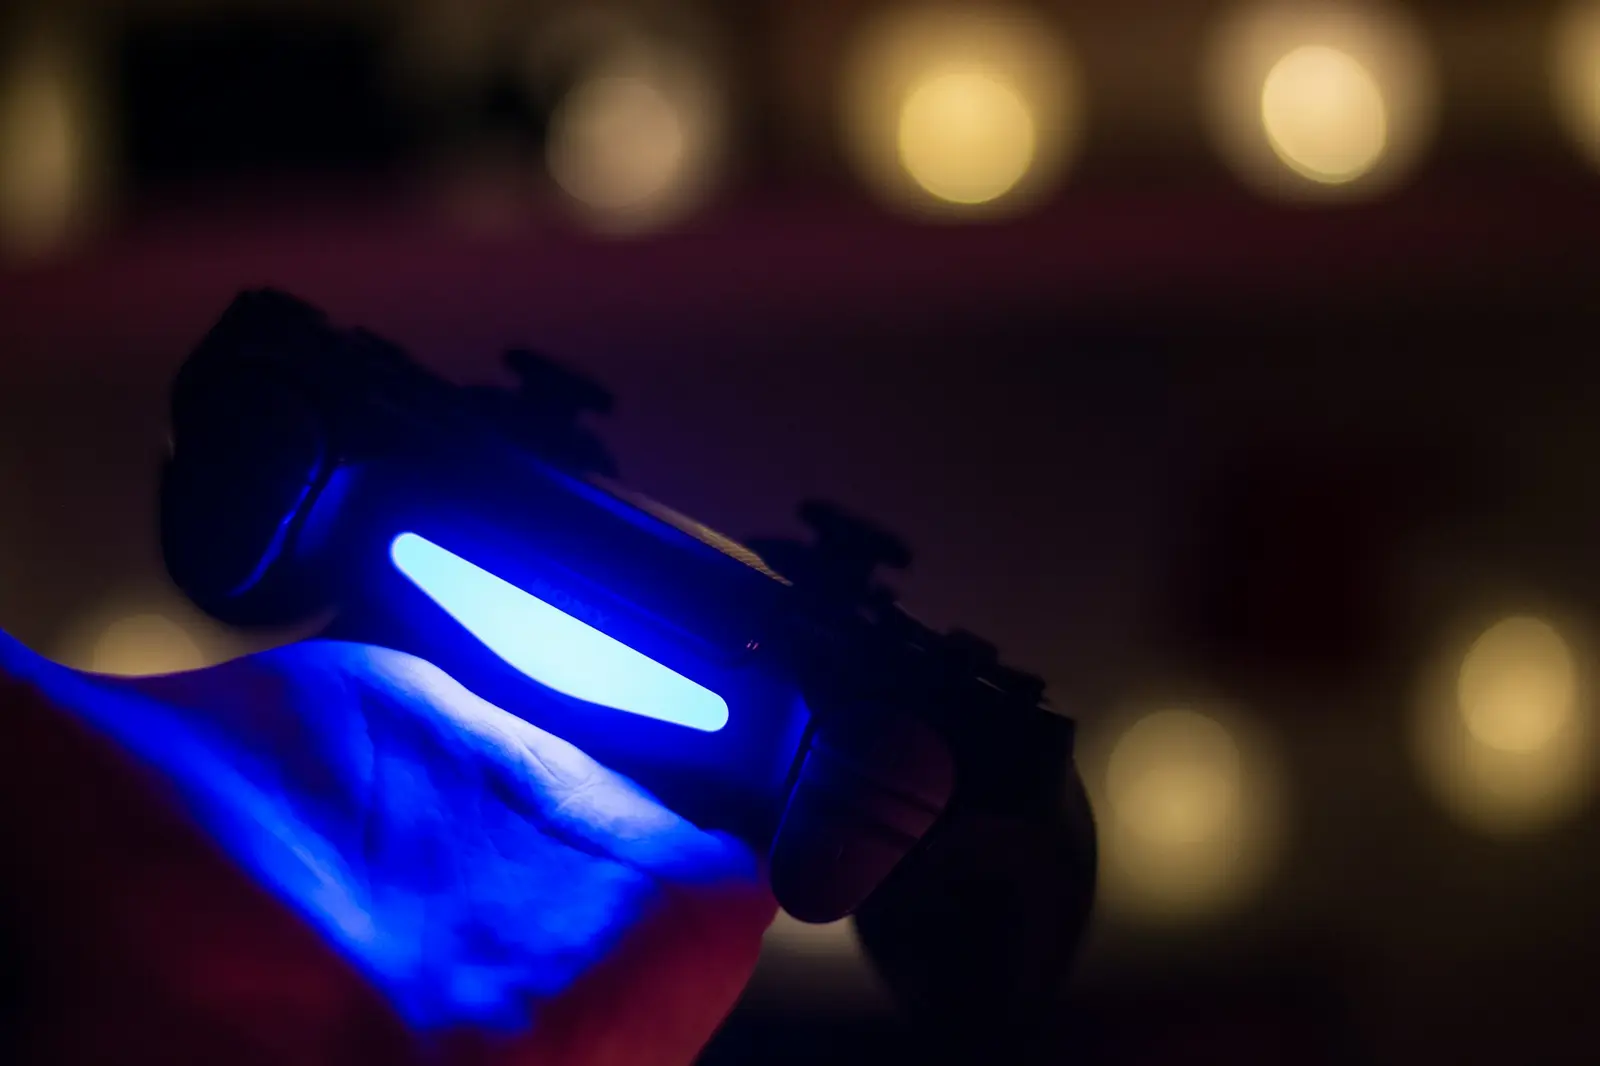
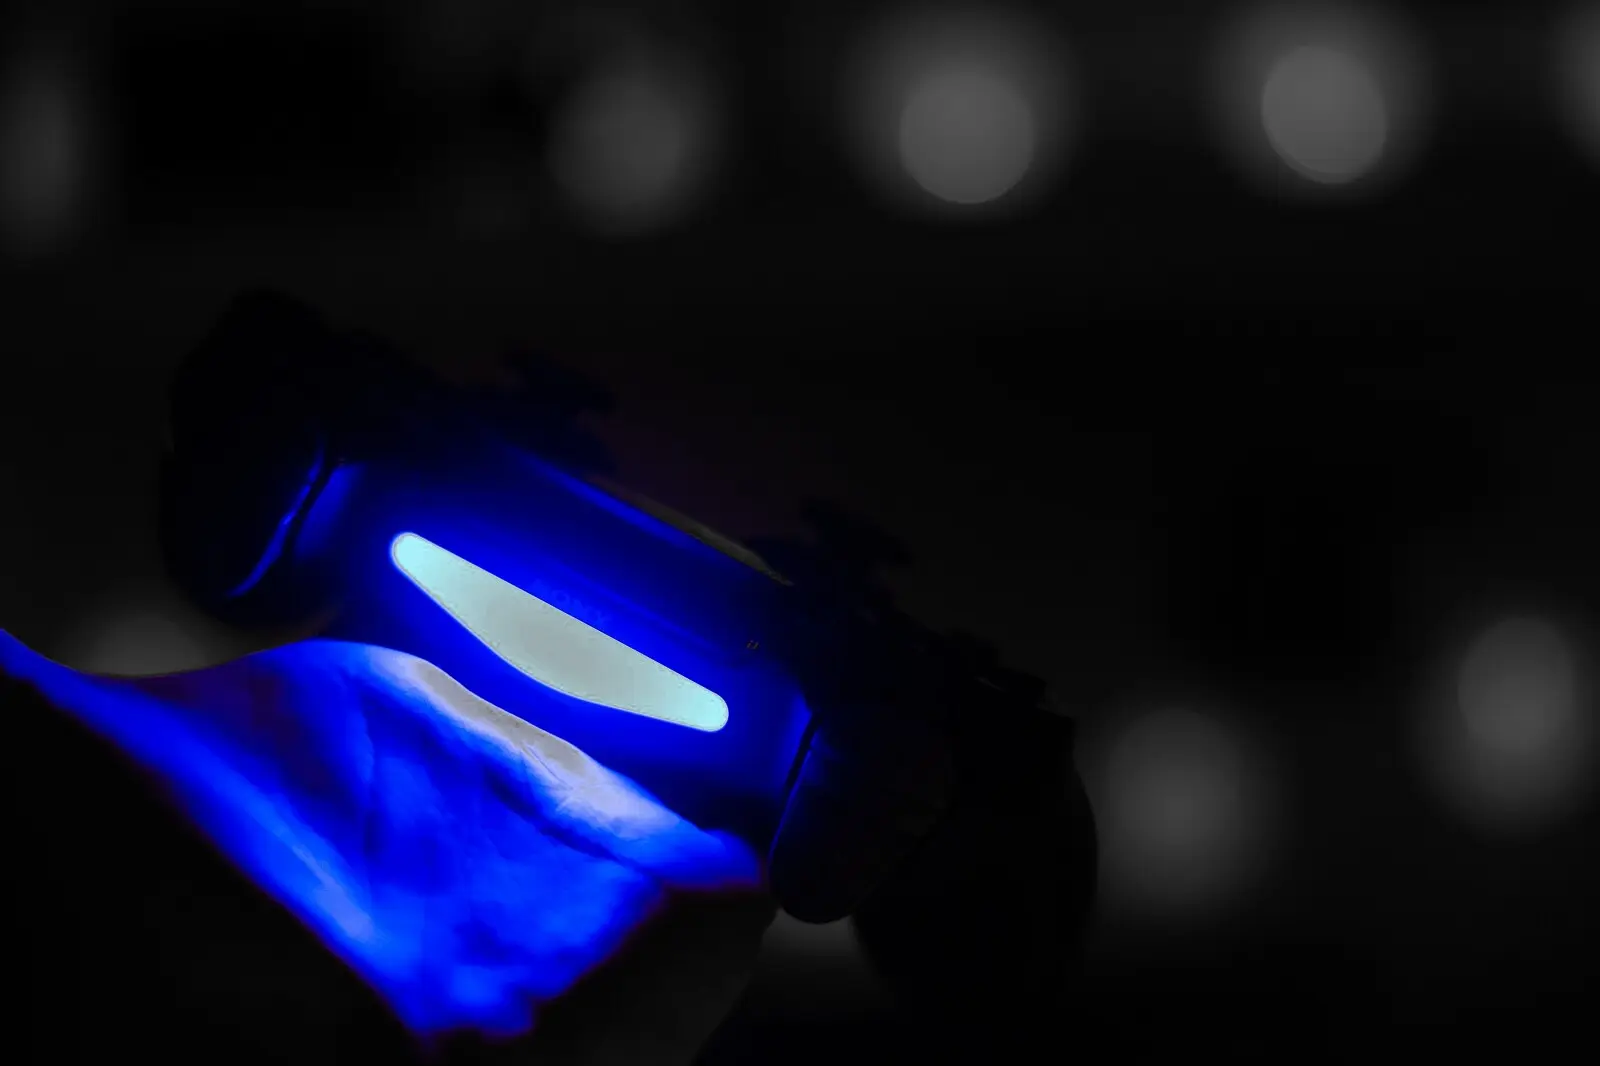
fix: abertura com a janela no primeiro viewport e fotos no mundo do design system
Ajustes da revisão de design:
- a faixa da foto fica mais baixa e recortada na barra de luz; a janela
  entra no primeiro viewport em 1440x900 e 390x844, com a luz acesa logo
  acima dela; título até 80 px;
- foto da sala trocada por uma de fone de ouvido diante da TV, sem marcas
  de terceiros, em duotom; mão com luz só com o azul colorido; fundo da
  foto final levado ao preto da página;
- barra de título da janela com o botão de fechar do GNOME;
- rodapé alinhado à coluna de conteúdo, navegação visível no tablet,
  botões planos alinhados no celular, rótulos do grafo maiores.

diff --git a/landingpage/css/style.css b/landingpage/css/style.css
@@ -332,7 +332,7 @@ p {
 
 .hero {
   position: relative;
-  padding: clamp(112px, 16vh, 168px) var(--gutter) 0;
+  padding: clamp(96px, 13vh, 132px) var(--gutter) 0;
   isolation: isolate;
 }
 
@@ -340,8 +340,8 @@ p {
   position: relative;
   z-index: -1;
   margin: clamp(-96px, -5vw, -32px) calc(-1 * var(--gutter)) 0;
-  aspect-ratio: 12 / 5;
-  max-height: 760px;
+  aspect-ratio: 3 / 1;
+  max-height: 720px;
   overflow: hidden;
   /* a foto se dissolve no preto da página nas duas pontas */
   -webkit-mask-image: linear-gradient(to bottom, transparent 0, #000 28%, #000 72%, transparent 100%);
@@ -352,7 +352,7 @@ p {
   width: 100%;
   height: 100%;
   object-fit: cover;
-  object-position: 50% 88%;
+  object-position: 50% 86%;
   filter: hue-rotate(var(--led-hue)) saturate(var(--led-sat));
   transition: filter 300ms ease-out;
 }
@@ -363,7 +363,7 @@ p {
 }
 
 .hero h1 {
-  font-size: clamp(2.75rem, 7.2vw, 6rem);
+  font-size: clamp(2.75rem, 6vw, 5rem);
   line-height: 1.02;
   letter-spacing: -0.04em;
   max-width: 15ch;
@@ -410,8 +410,8 @@ p {
 .window-wrap {
   position: relative;
   max-width: 1040px;
-  /* a janela nasce logo abaixo da barra de luz da foto */
-  margin: min(-17vw, -120px) auto 0;
+  /* a janela nasce logo abaixo da barra de luz da foto, que fica acesa atrás dela */
+  margin: min(-20vw, -120px) auto 0;
 }
 
 .window-wrap > .caption {
@@ -443,18 +443,20 @@ p {
   font-weight: 500;
 }
 
-.win-dots {
+.win-close {
   position: absolute;
-  right: 14px;
-  display: flex;
-  gap: 8px;
-}
-
-.win-dots i {
-  width: 12px;
-  height: 12px;
+  right: 10px;
+  display: grid;
+  place-items: center;
+  width: 24px;
+  height: 24px;
   border-radius: 50%;
   background: var(--black-2);
+}
+
+.win-close .icon {
+  width: 14px;
+  height: 14px;
 }
 
 .win-body {
@@ -1096,9 +1098,6 @@ input[type="range"]::-moz-range-thumb {
   font-weight: 200;
   letter-spacing: -0.04em;
   line-height: 0.9;
-  display: inline-block;
-  min-width: 2.6ch;
-  text-align: right;
 }
 
 .big-readout .unit {
@@ -1434,9 +1433,9 @@ input[type="range"]::-moz-range-thumb {
 
 /* rodapé */
 .footer {
-  max-width: var(--content);
+  width: min(calc(100% - 2 * var(--gutter)), calc(var(--content) - 2 * var(--gutter)));
   margin: 0 auto;
-  padding: 32px var(--gutter) 48px;
+  padding: 32px 0 48px;
   border-top: 1px solid var(--hairline);
   display: grid;
   gap: 12px;
@@ -1456,12 +1455,13 @@ input[type="range"]::-moz-range-thumb {
 /* ---------- responsivo ---------- */
 
 @media (max-width: 960px) {
-  .topnav {
-    display: none;
+  .topbar {
+    gap: 12px;
   }
 
-  .topbar-repo {
-    margin-left: auto;
+  .topnav a {
+    padding: 0 8px;
+    font-size: 0.8125rem;
   }
 
   .parallel,
@@ -1496,21 +1496,39 @@ input[type="range"]::-moz-range-thumb {
 }
 
 @media (max-width: 720px) {
+  .topnav {
+    display: none;
+  }
+
+  .topbar-repo {
+    margin-left: auto;
+  }
+
+  .hero-actions .button.flat {
+    padding-inline: 0;
+  }
+
+  .hero-actions .button.flat:hover {
+    background: transparent;
+    text-decoration: underline;
+    text-underline-offset: 0.22em;
+  }
+
   .win-body {
     grid-template-columns: 1fr;
     min-height: 0;
   }
 
   .hero-photo {
-    aspect-ratio: 4 / 3;
+    aspect-ratio: 16 / 9;
   }
 
   .hero-photo img {
-    object-position: 50% 80%;
+    object-position: 50% 76%;
   }
 
   .window-wrap {
-    margin-top: -56px;
+    margin-top: -72px;
   }
 
   .win-sidebar {
@@ -1559,7 +1577,7 @@ input[type="range"]::-moz-range-thumb {
 
   .n-sub,
   .n-label {
-    font-size: 18px;
+    font-size: 20px;
   }
 
   .bands li,

diff --git a/landingpage/index.html b/landingpage/index.html
@@ -96,7 +96,9 @@
                 <div class="window" id="janela" data-conn="usb" data-page="status">
                     <div class="win-header">
                         <span class="win-title">DS4 Companion</span>
-                        <span class="win-dots" aria-hidden="true"><i></i><i></i><i></i></span>
+                        <span class="win-close" aria-hidden="true">
+                            <svg class="icon" viewBox="0 0 20 20"><path d="m6.5 6.5 7 7M13.5 6.5l-7 7"/></svg>
+                        </span>
                     </div>
                     <div class="win-body">
                         <nav class="win-sidebar" aria-label="Páginas da prévia" role="tablist">
@@ -231,8 +233,8 @@
         <section class="section parallel" id="paralelo" aria-labelledby="paralelo-titulo">
             <div class="parallel-photo">
                 <picture>
-                    <source type="image/webp" srcset="assets/img/sala-tv-640.webp 640w, assets/img/sala-tv-1200.webp 1200w" sizes="(min-width: 960px) 40vw, 100vw">
-                    <img src="assets/img/sala-tv.jpg" alt="Pessoa sentada no chão de uma sala escura, jogando diante da TV" width="1200" height="1800" loading="lazy">
+                    <source type="image/webp" srcset="assets/img/fone-tv-640.webp 640w, assets/img/fone-tv-1200.webp 1200w" sizes="(min-width: 960px) 40vw, 100vw">
+                    <img src="assets/img/fone-tv.jpg" alt="Pessoa de fone de ouvido diante da TV, numa sala escura" width="1200" height="1800" loading="lazy">
                 </picture>
             </div>
             <div class="parallel-body">
@@ -467,7 +469,7 @@
         <p class="caption">
             Fotos do Unsplash:
             <a href="https://unsplash.com/photos/LfVBFnrM-bM">Radek Skrzypczak</a>,
-            <a href="https://unsplash.com/photos/qgInQSplXBU">Erik Mclean</a>,
+            <a href="https://unsplash.com/photos/HwJqzQSanDc">luis enrique</a>,
             <a href="https://unsplash.com/photos/jk4EUmHtU8M">Mateusz Strzeszewski</a> e
             <a href="https://unsplash.com/photos/7Q2RYMQTpJg">Javid Naderi</a>.
         </p>

diff --git a/landingpage/.impeccable/surfaces/index-html.md b/landingpage/.impeccable/surfaces/index-html.md
@@ -24,8 +24,8 @@ OWN-WORLD: black-0 #060709 como vazio, black-1/black-2 como camadas, uma única 
 
 STORY: entende em uma linha que o som vai para a TV e para o controle ao mesmo tempo; acredita porque vê o fluxo em paralelo, o slider em dB que inverte para branco acima de 0 dB e a honestidade sobre Bluetooth; age indo ao GitHub ou copiando o comando de instalação futuro.
 
-FIRST VIEWPORT: título leve à esquerda no topo (≈ 64–80 px) com a frase do produto; logo e links mínimos numa barra fina; a janela do app ocupa ~60% da largura, inclinada zero, flutuando sobre foto escura do controle com a faixa de luz acesa; ação principal "Ver no GitHub" (led-blue) + comando copiável ao lado. Raise (estrutura 4, sala à noite): foto real de controle no escuro como chão do hero. Raise (estrutura 3, fader): o slider em dB da janela é arrastável e mostra livre/alto/acima do limite com inversão.
+FIRST VIEWPORT: título leve à esquerda no topo (≈ 64–80 px) com a frase do produto; logo e links mínimos numa barra fina; a janela do app ocupa ~60% da largura, inclinada zero, flutuando sobre foto escura do controle com a faixa de luz acesa; ação principal "Acompanhar no GitHub" (led-blue) + "Como instalar"; o comando copiável fica na seção de instalação, rotulado "quando sair", porque o pacote ainda não existe. Raise (estrutura 4, sala à noite): foto real de controle no escuro como chão do hero. Raise (estrutura 3, fader): o slider em dB da janela é arrastável e mostra livre/alto/acima do limite com inversão.
 
-FORM: estrutura 6 de 7 (página como janela do app), sorteada na frente; seed:d69856b8a6825e94. Desafiantes recusados; disciplina mantida da prancha de patente: anatomia do controle com linhas de chamada finas ligando peças a recursos. Do contador nixie: o valor em dB é o único numeral aceso, tabular, que troca no lugar.
+FORM: estrutura 6 de 7 (página como janela do app), sorteada na frente; seed:d69856b8a6825e94. Desafiantes recusados; da prancha de patente fica só a linha de chamada fina, no grafo do áudio (a foto é frontal e não mostra alto-falante nem motores, então uma anatomia apontaria para o lugar errado). Do contador nixie: o valor em dB é o único numeral aceso, tabular, que troca no lugar.
 
 FINISH: unreviewed and undocumented is unfinished; this build ends with the finish review, the verdict, DESIGN.md, and every shipping raster carrying its provenance

diff --git a/landingpage/assets/CREDITS.md b/landingpage/assets/CREDITS.md
@@ -4,12 +4,16 @@
 
 Todas do [Unsplash](https://unsplash.com), sob a [Licença Unsplash](https://unsplash.com/license)
 (uso livre, sem exigência de atribuição; damos o crédito mesmo assim). Redimensionadas e
-convertidas para WebP/JPEG, sem metadados.
+convertidas para WebP/JPEG, sem metadados. Tratamento para o mundo do design system (só a luz azul
+brilha): `controle-luz` sem alteração além do tamanho (foto feita pelo topo do controle, por isso
+os rótulos aparecem de cabeça para baixo); `fone-tv` em duotom
+preto-azulado; `mao-luz` com tudo o que não é azul dessaturado e escurecido; `mao-escuro` com o
+fundo cinza levado ao preto.
 
 | Arquivo | Foto | Autor |
 |---|---|---|
 | `img/controle-luz*` | [LfVBFnrM-bM](https://unsplash.com/photos/LfVBFnrM-bM) | Radek Skrzypczak |
-| `img/sala-tv*` | [qgInQSplXBU](https://unsplash.com/photos/qgInQSplXBU) | Erik Mclean |
+| `img/fone-tv*` | [HwJqzQSanDc](https://unsplash.com/photos/HwJqzQSanDc) | luis enrique |
 | `img/mao-luz*` | [jk4EUmHtU8M](https://unsplash.com/photos/jk4EUmHtU8M) | Mateusz Strzeszewski |
 | `img/mao-escuro*` | [7Q2RYMQTpJg](https://unsplash.com/photos/7Q2RYMQTpJg) | Javid Naderi |
 
